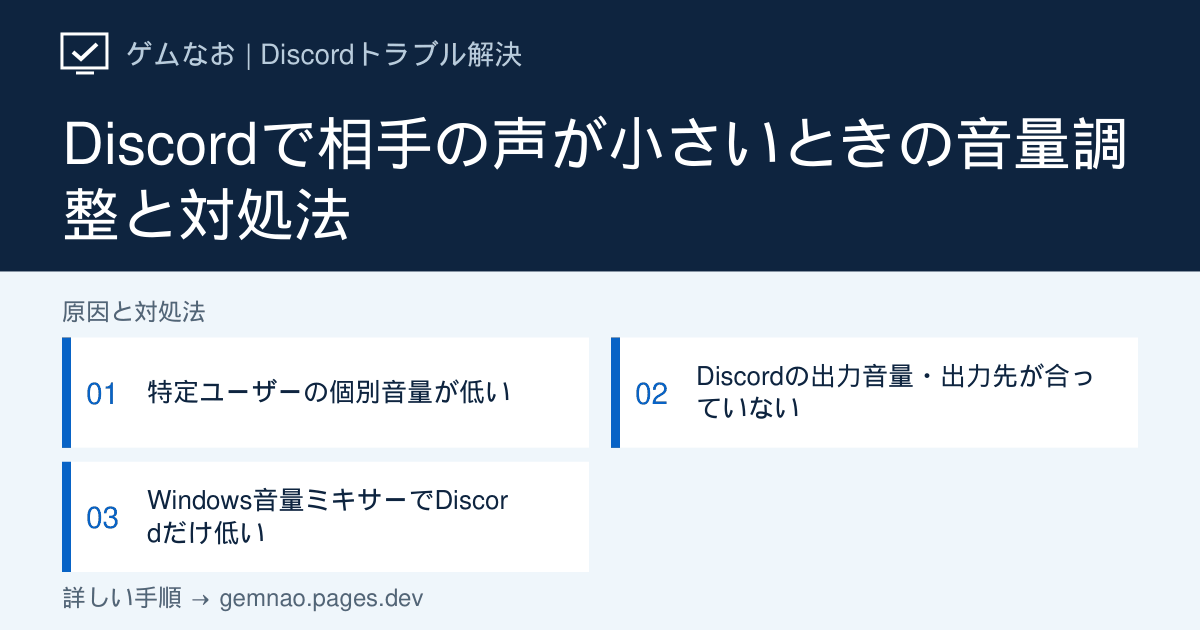
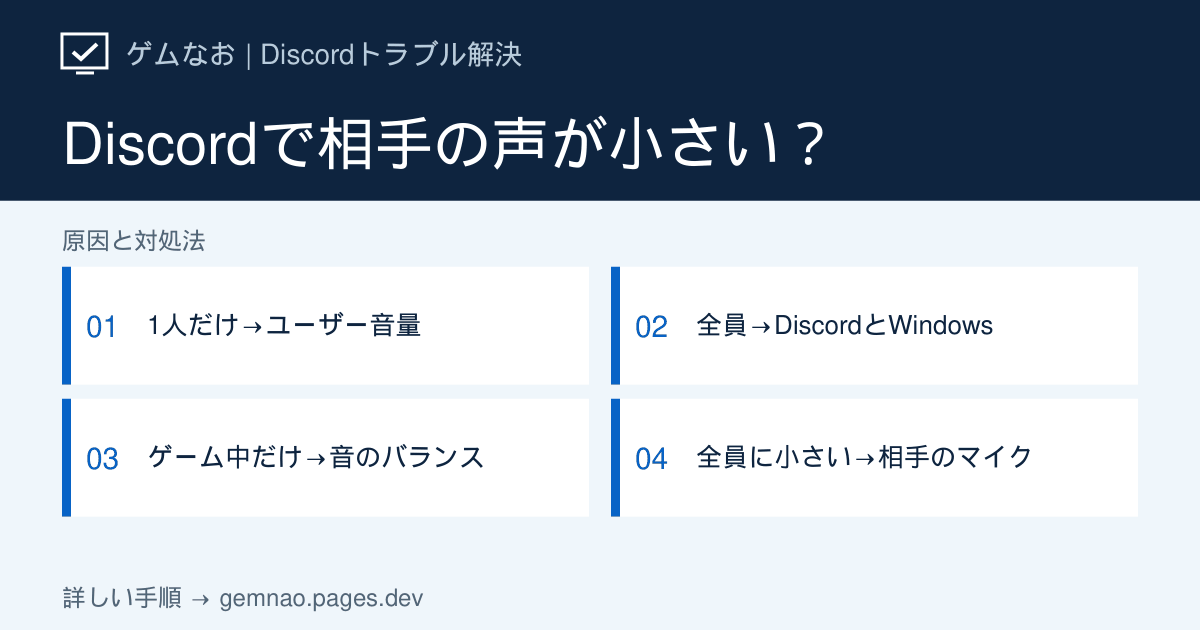
Improve quiet Discord voices guide with symptom-specific volume checks

diff --git a/lib/discord-audio-growth-articles.ts b/lib/discord-audio-growth-articles.ts
@@ -680,25 +680,92 @@ export const discordAudioGrowthArticles: DiscordArticle[] = [
   },
   {
     slug: 'user-volume-low', category: 'audio',
-    title: 'Discordで相手の声が小さいときの音量調整と対処法',
+    title: 'Discordで相手の声が小さい時の直し方｜1人だけ・全員・ゲーム中で切り分け',
     shortTitle: '相手の声が小さい',
-    seoTitle: 'Discordで相手の声が小さいときの直し方｜個別音量を確認',
-    metaDescription: 'Discordで特定の相手または全員の声が小さい場合の対処法。ユーザー別音量、出力音量、Windows音量ミキサーを順番に確認します。',
-    symptom: '声自体は聞こえるが小さい、特定の一人だけ聞き取りにくい、ゲーム音にDiscord通話が負ける場合の手順です。',
-    target: 'Windows版 Discordデスクトップアプリ',
-    conclusion: '特定の相手だけならユーザー別音量を上げ、全員が小さいならDiscordの出力音量とWindowsの音量ミキサーを確認します。',
-    quickFixes: ['相手を右クリックしてユーザー音量を確認する', 'Discordの出力音量と出力デバイスを確認する', 'Windows音量ミキサーでDiscordの音量を確認する'],
+    seoTitle: 'Discordで相手の声が小さい原因と直し方｜200％でも小さい時は？',
+    metaDescription: 'Discordで相手の声が小さい時は、1人だけか全員かを先に確認。個別音量・出力音量・Windows音量ミキサーの操作場所、ゲーム音との比較、200％でも小さい場合に相手のマイクを確認する条件を解説します。',
+    symptom: '特定の相手だけ声が小さい、全員聞き取りにくい、ゲーム中だけ通話が埋もれる場合の手順です。完全に無音の場合は関連記事「相手の声が聞こえない」へ進みます。',
+    target: 'Windows 11／Windows 10のDiscordデスクトップアプリ',
+    conclusion: '1人だけ小さいなら、その人のユーザー音量を確認します。全員小さいなら自分のDiscord出力音量とWindowsのアプリ別音量へ。ゲーム中だけならゲーム音を下げて比較。他の参加者にも同じ人の声が小さく聞こえる場合は、相手側のマイクを確認します。',
+    quickFixes: ['別の参加者の声と比べ、1人だけか全員かを確認する', '該当する音量を1つずつ調整し、同じ相手に同じ文章を話してもらう', 'ゲーム音を下げた時の違いと、他の参加者の聞こえ方で次の確認先を決める'],
+    showStatusCheck: false,
+    diagnosisTitle: '誰の声が、いつ小さい？ 音量の確認先を選ぶ表',
+    diagnosisIntro: 'ゲーム音を一時的に下げ、「音声チェック、今日はこの声で話します」と普段の声で話してもらいます。同じイヤホン・同じ相手で比較し、設定は1つずつ変更してください。',
+    diagnosis: [
+      { symptom: '1人だけ小さい／他の人は十分聞こえる', check: 'その人のユーザー音量を確認。全体音量は先に上げない', causeIndex: 1 },
+      { symptom: '全員小さい／ゲームや動画は普通', check: 'Discordの出力先・出力音量→Windowsのアプリ別音量', causeIndex: 2 },
+      { symptom: 'ゲームや動画も小さい', check: 'Windowsとヘッドセット本体の音量を確認', causeIndex: 3 },
+      { symptom: '通話だけなら十分／ゲーム中だけ聞き取りにくい', check: 'ゲーム音を下げ、同じ文章の聞こえ方を比較', causeIndex: 4 },
+      { symptom: '個別音量を上げても小さい／他の参加者にも同じ', check: '相手の録音とマイク入力を確認してもらう', causeIndex: 5 },
+      { symptom: '語尾や小声だけ消える', check: '音量を上げ続けず、相手の入力感度・音声処理を確認', causeIndex: 5 },
+    ],
     causes: [
-      { title: '特定ユーザーの個別音量が低い', description: 'Discordでは相手ごとに再生音量を変更できます。', actions: ['通話中の相手を右クリックする', 'ユーザー音量のスライダーを確認する', '少しずつ上げて聞こえ方を確認する'] },
-      { title: 'Discordの出力音量・出力先が合っていない', description: '全員の声が小さい場合はアプリ全体の出力設定を確認します。', actions: ['「音声・ビデオ」を開く', '出力デバイスを選び直す', '出力音量を上げて通話で確認する'] },
-      { title: 'Windows音量ミキサーでDiscordだけ低い', description: 'アプリごとの音量がDiscordだけ下がっている場合があります。', actions: ['Windowsの音量ミキサーを開く', 'Discordの音量と出力先を確認する', 'ゲーム音とのバランスを調整する'] },
+      {
+        title: '1人だけ小さいなら、その人のユーザー音量を調整する',
+        description: '個別音量は自分が聞く相手の声を調整する設定です。自分のマイク入力音量を上げても、相手の声は大きくなりません。',
+        actions: [
+          '通話中のボイスチャンネルで相手の名前・アイコンを右クリックし、「ユーザー音量」のスライダーを探す。',
+          '元の値を控える。例えば50％なら少しずつ100％へ近づけ、同じ文章を話してもらう。100％は比較の目安で、全員に最適な値という意味ではない。',
+          'その人だけ聞き取りやすくなり、他の人の音量が変わらなければ個別調整で完了。通常の声と少し大きな声を聞き、音割れしない範囲で止める。',
+          '上限まで上げても小さい場合は、他の参加者にも同じか聞く。複数人に小さいならSTEP 5、自分だけならSTEP 2へ進む。',
+        ],
+        note: '急に大きな声が入ることがあるため、すべての音量を一度に最大にしないでください。耳に負担を感じたらすぐ下げます。',
+      },
+      {
+        title: '全員小さいなら、Discordの出力先と出力音量を確認する',
+        description: 'ゲームはヘッドセット、通話はモニターなど別の場所から鳴っていると、声だけ遠い・小さいと感じることがあります。',
+        actions: [
+          '左下の歯車→「音声・ビデオ」を開く。タブが分かれている画面では音声の項目を選び、「出力デバイス」を確認する。',
+          '使用中のヘッドセット・イヤホンの機器名を選び、実際にその機器から声が出るか聞く。切り替え前に音量を下げておく。',
+          '「出力音量」の元の値を控え、少しずつ上げる。「入力音量」は自分のマイク用なので今回の調整対象ではない。',
+          '2人以上の声がともに改善すれば終了。出力音量を変えても全員小さい場合はSTEP 3のWindows側を確認する。',
+        ],
+      },
+      {
+        title: 'Windowsの音量ミキサーと機器本体を確認する',
+        description: 'Discordだけ低い場合と、機器全体の音量が低い場合を分けます。通話をつないだまま確認してください。',
+        actions: [
+          'Windows 11は「設定」→「システム」→「サウンド」→「音量ミキサー」を開く。Windows 10はタスクバーのスピーカーを右クリック→「音量ミキサーを開く」で確認する。',
+          'Discordのミュートと音量を確認し、低ければ少しずつ上げる。アプリ別の出力先が表示される画面では、使用中の機器とも照合する。',
+          'Discordが見当たらない場合は相手に話してもらい、ミキサーを開き直す。ブラウザ版なら、利用中のブラウザの音量を確認する。',
+          'ゲームや動画も小さいなら、Windows全体の出力音量とヘッドセット本体のダイヤルを確認。同じ機器で短い動画と通話を比べる。',
+          '別のイヤホンがあれば音量を下げて交換し、出力先も切り替えて比較する。交換後だけ改善するなら機器・接続側、Discordだけ変わらないならアプリ側の確認を優先する。',
+        ],
+      },
+      {
+        title: 'ゲーム中だけ小さいなら、ゲーム音とのバランスを比べる',
+        description: '声自体が小さいのか、BGMや効果音に埋もれているのかを調べます。上げるだけでなく、競合する音を下げて確認します。',
+        actions: [
+          'ゲーム内のオーディオ設定でマスター音量の元の値を控えて下げる。見つからなければWindows音量ミキサーでゲームだけを下げる。',
+          '例としてゲーム音量を80から40に変更し、同じ場面・同じ相手の文章で比較する。この数値は比較例であり、推奨値や実測結果ではない。',
+          '声が聞き取れるようになるなら、BGM・効果音を戻しながら会話できるバランスを探す。変化がなければSTEP 2・3へ進む。',
+          'ヘッドセットにGame／Chatなどのバランス調整がある場合は、元の位置を控えて中央付近で比較する。搭載されている機器だけが対象。',
+          'Bluetoothで通話開始と同時に音がこもる場合は、音量不足と分けて関連記事「Bluetoothでゲーム音が消える・音質が悪い」を確認する。',
+        ],
+      },
+      {
+        title: '他の参加者にも同じなら、相手側のマイクを確認してもらう',
+        description: '複数人に同じ声が小さく届くなら、送信側を調べる手がかりになります。ただし、それだけでマイク故障とは断定しません。',
+        actions: [
+          '別の参加者にも同じ人の声を聞いてもらう。自分だけ小さいなら自分側、複数人に小さいなら相手側を優先。2人通話なら次の録音比較を頼む。',
+          '相手にWindowsの「サウンド レコーダー」（Windows 10は「ボイス レコーダー」）で短く録音してもらう。普段の距離・声量で、Discordと同じマイクを使う。',
+          '録音から小さいならマイクの位置・機器側の音量・Windows入力設定、録音は十分ならDiscordの入力機器・入力音量へ。具体的な操作は関連記事「マイク・自分の声が小さい」を相手に送る。',
+          '語尾だけ消える場合は、相手の入力感度や音声処理も切り分ける。受信側で音量を上げても、届いていない声の部分は復元できない。',
+          '相手の調整後は、自分のユーザー音量をいったん下げて再確認する。通常の声が聞き取れ、大きめの声でも割れなければ完了。',
+        ],
+      },
     ],
-    ifNotFixed: '特定の相手だけ小さく、ユーザー音量を上げても変わらない場合は、相手側でマイク音量を確認してもらってください。全員聞こえない場合は「相手の声が聞こえない」記事へ進みます。',
+    ifNotFixed: '「1人だけ／全員」「ゲーム音を下げた時の違い」「出力機器名」「個別・Discord・Windowsの音量」「他の参加者にも同じか」をまとめて相談してください。最初から再インストールや設定の全初期化をするより、比較結果を残すと確認範囲を絞れます。',
     faqs: [
-      { question: '特定の人だけ声が小さいのは自分の設定ですか？', answer: 'ユーザー別音量が低い可能性があります。それが正常なら、相手側のマイク入力音量も確認してもらってください。' },
-      { question: 'ゲーム音を下げずに相手の声だけ大きくできますか？', answer: 'ユーザー別音量またはDiscordの出力音量を上げ、Windows音量ミキサーでゲームとのバランスを調整できます。' },
+      { question: 'ユーザー音量200％でも小さい時は？', answer: '上限まで上げても小さいなら、他の参加者にも同じか確認します。自分だけならDiscordの出力とWindows側、複数人に同じなら相手のマイク側を調べます。雑音や音割れが増える場合はいったん下げてください。' },
+      { question: '個別音量を変えると、他の参加者の聞こえ方も変わる？', answer: '自分が聞くその相手の音量を調整する操作です。他の参加者の聞こえ方や相手のマイク設定を一括変更するものではありません。' },
+      { question: '入力音量と出力音量、どちらを変える？', answer: '相手の声を自分が聞く大きさは出力側です。入力音量は自分のマイクから送る声に関係します。特定の1人だけなら先にユーザー音量を調整します。' },
+      { question: '1対1の通話で比較できる人がいない場合は？', answer: '自分側は同じ機器で動画と通話、相手側は同じマイクで録音とDiscordを比較します。これだけで断定はできませんが、どちら側を優先して確認するかの材料になります。' },
     ],
-    sources: [voiceGuide], related: ['cant-hear-voice', 'mic-volume-low', 'game-volume-lowers'], checkedAt: '2026-09-19', status: 'verified',
+    sources: [official('205287897-How-do-I-adjust-the-volume-level-of-individual-users-in-my-server', 'ユーザーごとの音量調整（英語）'), voiceGuide, windowsAppAudio],
+    related: ['cant-hear-voice', 'mic-volume-low', 'bluetooth-audio-problem'], checkedAt: '2026-09-28', status: 'verified',
+    ogTitle: 'Discordで相手の声が小さい？',
+    ogSteps: ['1人だけ→ユーザー音量', '全員→DiscordとWindows', 'ゲーム中だけ→音のバランス', '全員に小さい→相手のマイク'],
   },
   {
     slug: 'phone-verification-error',

diff --git a/lib/og-image-manifest.ts b/lib/og-image-manifest.ts
@@ -31,7 +31,7 @@ export const ogImageManifest: Record<string, string> = {
   "/discord/stream-no-audio": "bfb2ee4d",
   "/discord/system-helper": "7455f630",
   "/discord/update-failed": "45c152bc",
-  "/discord/user-volume-low": "47ca5d40",
+  "/discord/user-volume-low": "31161b2c",
   "/discord/voice-client-outdated": "9940ed57",
   "/discord/voice-cutting-out": "e483fd4c",
   "/games/aniimo": "30fe6a2d",
